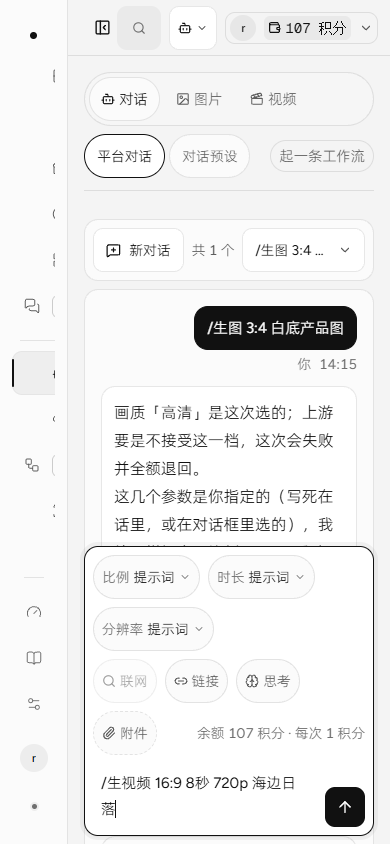
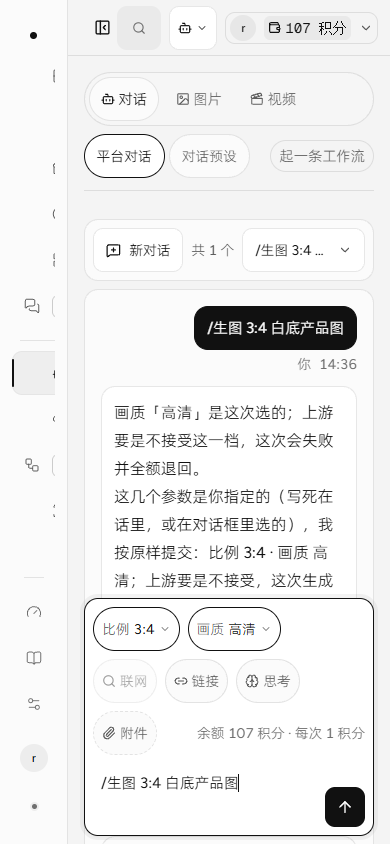
r342 取证收紧：390 量图片态、断言具体值、FAIL 退 1（独立复核后修）
独立复核（shots-r342 按同一套骨架重跑）结论：功能成立，但上一版取证有硬伤——
- 390 那张拍/量的是**视频态**（数字为真，不是要证的那一屏）；
- 「行在」就算过、余额只比字符串（读取中也 != 旧值）、rowScroll===null 自动过、FAIL 也 exit 0；
- 四张图与拼图靠外部 Pillow 脚本，只跑脚本复现不出 docs。

这一版：
- 390 先回到图片态（比例 3:4 / 画质 高清）再量，断言两枚胶囊的具体文字 + docScroll/bodyScroll/rowScroll；
- 余额要等于服务端 GET /api/credits 且 before-after == 卡片 cost（不是「变过就算」）；
- 视频三枚断言具体标签；未捕获异常也计入检查；
- 任何 FAIL 让进程退 1；四张图与拼图搬进脚本（about:blank 里拼，不用 Pillow）。

重跑 8/8 通过、node exit 0；脚本自身 oxlint 0 warning。生产包未变（这一提交只动脚本与 docs 四张图）。

diff --git a/docs/r342-chat-media-params-2026-11-27.md b/docs/r342-chat-media-params-2026-11-27.md
@@ -62,7 +62,8 @@
 | 发送一条生成指令后右上角余额 | **110 积分 → 107 积分**（-3，实时） |
 | 任务卡片规格 | `VisionQA通用图片模型 · 3:4 · 1152x1536 · 画质 高清 · 3 积分` |
 | 视频指令的控件 | `比例 提示词` `时长 提示词` `分辨率 提示词` 三枚 |
-| 390×844 窄屏 | docScroll 390 = innerWidth 390；设置行 clientWidth 272 = scrollWidth 272 |
+| 390×844 窄屏（**图片态**：比例 3:4 / 画质 高清） | 两枚胶囊单行；docScroll 390 = innerWidth 390 = bodyScroll；设置行 clientWidth 272 = scrollWidth 272 |
+| 发到上游的正文 | `{"prompt":"白底产品图","size":"1152x1536","quality":"high","n":1,"model":"gpt-image-2.6"}` |
 | 真实上游调用 | **0**（假上游命中 1 次，路径 `/v1/images/generations`） |
 
 ![对话框里的生成设置（图片：比例 + 画质）](r342-gen-settings-image-1440.png)
@@ -71,7 +72,13 @@
 
 ![1440：视频指令的比例 / 时长 / 分辨率](r342-gen-settings-video-1440.png)
 
-![390 窄屏：视频指令的比例 / 时长 / 分辨率（换行、不横溢）](r342-gen-settings-390.png)
+![390 窄屏：图片态的比例 / 画质（两枚单行、不横溢）](r342-gen-settings-390.png)
+
+取证脚本被**独立复核**过一轮（2026-11-27，队友 shots-r342 按同一套骨架重跑）：功能结论一致，
+但它指出两件事并已修掉——(a) 上一版 390 那张拍的是**视频态**，数字为真却不是要证的那一屏，现在先回到图片态再量；
+(b) 检查条件太松（「行在」就算过、余额只比字符串所以「读取中」也 != 旧值、`rowScroll === null` 自动过、
+FAIL 也 exit 0），现在断言具体的胶囊与溢出数字、余额要等于服务端 `/api/credits` 且差值等于卡片 cost，
+**任何一条 FAIL 都让进程退 1**；四张图与拼图也搬进脚本（原来靠外部 Pillow 脚本，只跑脚本复现不出 docs）。
 
 ## 门禁（2026-11-27 14:10 本机）
 
@@ -82,7 +89,8 @@
 - `tsc -b` 干净；`npm run build` 通过（入口 `index-yuUaxeXq.js` 873.79 kB / gzip 260.92 kB）。
 - `npm run lint` **0 error / 31 warning**（r340 也是 31 条，全是既有警告）。
 - `npm run scan:secrets` 1244 个文件无命中。
-- 取证脚本 `node scripts/shot-r342.mjs --dist dist`：5/5 通过（见上一节），产物 `.shots342/r342.json`。
+- 取证脚本 `node scripts/shot-r342.mjs --dist dist`：**8/8 通过、进程退 0**（FAIL 会退 1），产物 `.shots342/r342.json`；
+  四张图由脚本自己复制进 `docs/`（在此之前先删掉旧的，免得把上一版当这次的结果）。
 - **反证**：把全角冒号正则改回半角、把「参考图沿用」那一段短路，`node --test` 立刻红了 4 条
   （生产原句 3：4 的两条 + 参考图沿用的两条）；恢复后 45 / 45 绿。
 
